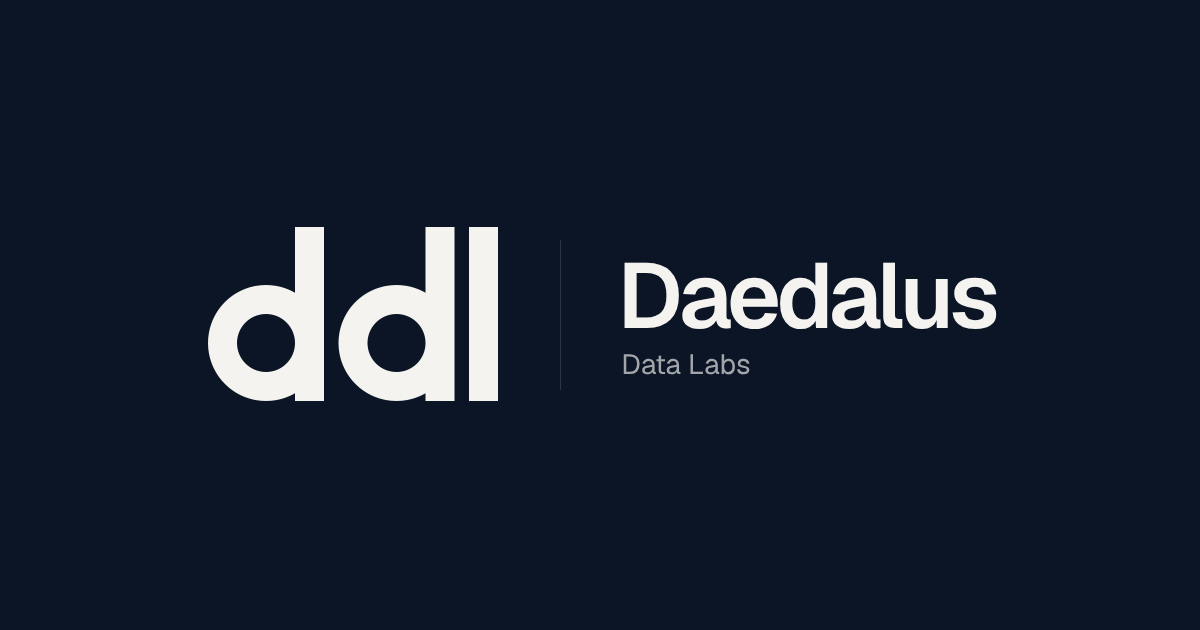
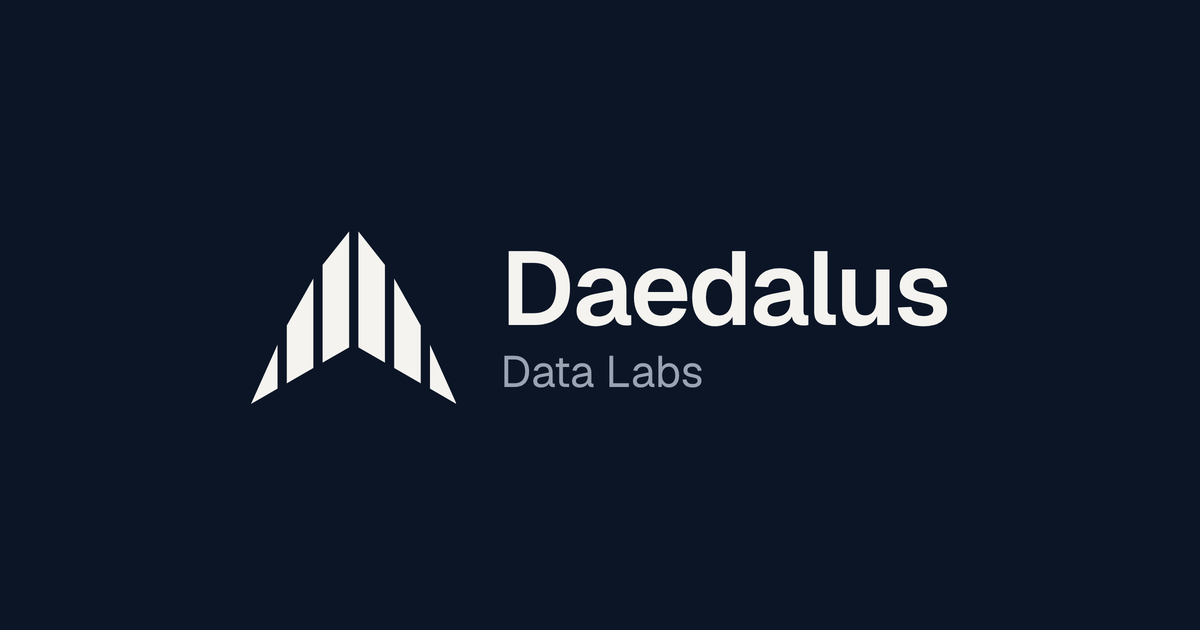
Replace the ddl mark with the Daedalus wing; tighten heading spacing
The new mark is two wings whose feathers are laid small to large (Ovid,
Metamorphoses 8); each wing is a delta and together they form a lambda,
so the mark reads DDL in Greek. The hero now draws that construction.
Nav and footer use the mark with a two-line Daedalus / Data Labs name,
the mark as tall as the name block. Masters, tile, favicons and OG image
re-rendered; old ddl assets removed. BRAND.md rewritten for the new mark.

Headline-to-subtitle gaps tightened: hero 28 -> 14 px, product 12 -> 6 px.

Changed region(s): [[0.1542, 0.3619, 0.8325, 0.6333]]

diff --git a/index.html b/index.html
@@ -17,13 +17,13 @@
 <link rel="preconnect" href="https://fonts.gstatic.com" crossorigin>
 <link rel="stylesheet" href="https://fonts.googleapis.com/css2?family=Geist:wght@400;500;600;700&display=swap">
 <link rel="stylesheet" href="/assets/site.css">
-<script>try{if(localStorage.getItem('ddl-theme')==='dark')document.documentElement.dataset.theme='dark'}catch(e){}</script>
+<script>try{if(localStorage.getItem('daedalus-theme')==='dark')document.documentElement.dataset.theme='dark'}catch(e){}</script>
 </head>
 <body>
 <header class="nav">
   <a class="brand" href="/" aria-label="Daedalus Data Labs home">
-    <svg class="mark" viewBox="0 0 300 180" aria-hidden="true"><path fill="currentColor" fill-rule="evenodd" d="M90 0 H120 V180 H90 V171.9615 A60 60 0 1 1 90 68.0385 Z M30 120 A30 30 0 1 0 90 120 A30 30 0 1 0 30 120 Z M225 0 H255 V180 H225 V171.9615 A60 60 0 1 1 225 68.0385 Z M165 120 A30 30 0 1 0 225 120 A30 30 0 1 0 165 120 Z M270 0 H300 V180 H270 Z"></path></svg>
-    <span class="brand-name">Daedalus <span class="brand-sub">Data Labs</span></span>
+    <svg class="mark" viewBox="0 5.26 200 167.94" aria-hidden="true"><path fill="currentColor" d="M0 173.2 L25.83 158.29 L25.83 115.4 L0 173.2 Z M34.83 153.09 L60.67 138.17 L60.67 51.13 L34.83 96.87 Z M69.67 132.98 L95.5 118.06 L95.5 5.26 L69.67 37.87 Z M104.5 118.06 L130.33 132.98 L130.33 37.87 L104.5 5.26 Z M139.33 138.17 L165.17 153.09 L165.17 96.87 L139.33 51.13 Z M174.17 158.29 L200 173.2 L174.17 115.4 Z"/></svg>
+    <span class="brand-name"><span class="brand-main">Daedalus</span><span class="brand-sub">Data Labs</span></span>
   </a>
   <nav class="links" aria-label="Primary">
     <a href="#meridian">Meridian</a>
@@ -41,30 +41,19 @@
       <h1>Software that tells you how it works.</h1>
       <p class="lede">Daedalus Data Labs is a small, independent studio. We make Meridian, which grades the US market where the data is complete, and Agora, a social network for your campus.</p>
     </div>
-    <figure class="construct" aria-label="The Daedalus Data Labs mark, drawn from one unit u, the stroke: counters of radius u, bowls of radius 2u, stems u wide and 6u tall, letters u/2 apart.">
-      <svg viewBox="-46 -18 362 232" role="img" aria-hidden="true">
-        <g class="guides">
-          <line x1="-46" y1="0" x2="316" y2="0"/><line x1="-46" y1="60" x2="316" y2="60"/><line x1="-46" y1="180" x2="316" y2="180"/>
-          <line x1="90" y1="-18" x2="90" y2="214"/><line x1="120" y1="-18" x2="120" y2="214"/><line x1="225" y1="-18" x2="225" y2="214"/><line x1="255" y1="-18" x2="255" y2="214"/><line x1="270" y1="-18" x2="270" y2="214"/><line x1="300" y1="-18" x2="300" y2="214"/>
-        </g>
-        <g class="circles">
-          <circle cx="60" cy="120" r="60"/><circle cx="60" cy="120" r="30"/><circle cx="195" cy="120" r="60"/><circle cx="195" cy="120" r="30"/>
-        </g>
-        <g class="dims">
-          <line x1="60" y1="120" x2="17.57" y2="77.57"/><circle cx="60" cy="120" r="1.6"/><circle cx="195" cy="120" r="1.6"/>
-          <line x1="195" y1="120" x2="216.21" y2="98.79"/>
-          <line x1="270" y1="196" x2="300" y2="196"/><line x1="270" y1="192" x2="270" y2="200"/><line x1="300" y1="192" x2="300" y2="200"/>
-          <line x1="255" y1="-9" x2="270" y2="-9"/><line x1="255" y1="-13" x2="255" y2="-5"/><line x1="270" y1="-13" x2="270" y2="-5"/>
-          <text x="-1" y="71">2u</text><text x="187" y="141">u</text><text x="282" y="209">u</text><text x="273" y="-6">u/2</text>
-          <text x="-44" y="-3">ascender, 6u</text><text x="-44" y="57">x-height, 4u</text><text x="-44" y="177">baseline</text>
-        </g>
-        <path class="ink" fill-rule="evenodd" d="M90 0 H120 V180 H90 V171.9615 A60 60 0 1 1 90 68.0385 Z M30 120 A30 30 0 1 0 90 120 A30 30 0 1 0 30 120 Z M225 0 H255 V180 H225 V171.9615 A60 60 0 1 1 225 68.0385 Z M165 120 A30 30 0 1 0 225 120 A30 30 0 1 0 165 120 Z M270 0 H300 V180 H270 Z"/>
-        <clipPath id="ink-clip"><path clip-rule="evenodd" d="M90 0 H120 V180 H90 V171.9615 A60 60 0 1 1 90 68.0385 Z M30 120 A30 30 0 1 0 90 120 A30 30 0 1 0 30 120 Z M225 0 H255 V180 H225 V171.9615 A60 60 0 1 1 225 68.0385 Z M165 120 A30 30 0 1 0 225 120 A30 30 0 1 0 165 120 Z M270 0 H300 V180 H270 Z"/></clipPath>
-        <g class="over" clip-path="url(#ink-clip)">
-          <line x1="-46" y1="60" x2="316" y2="60"/><line x1="90" y1="-18" x2="90" y2="214"/><line x1="120" y1="-18" x2="120" y2="214"/><line x1="225" y1="-18" x2="225" y2="214"/><line x1="255" y1="-18" x2="255" y2="214"/>
-          <circle cx="60" cy="120" r="60"/><circle cx="195" cy="120" r="60"/><line x1="60" y1="120" x2="17.57" y2="77.57"/>
+    <figure class="construct">
+      <svg viewBox="-92 -34 384 214" role="img" aria-labelledby="construct-cap">
+        <path class="ink" d="M0 173.2 L25.83 158.29 L25.83 115.4 L0 173.2 Z M34.83 153.09 L60.67 138.17 L60.67 51.13 L34.83 96.87 Z M69.67 132.98 L95.5 118.06 L95.5 5.26 L69.67 37.87 Z M104.5 118.06 L130.33 132.98 L130.33 37.87 L104.5 5.26 Z M139.33 138.17 L165.17 153.09 L165.17 96.87 L139.33 51.13 Z M174.17 158.29 L200 173.2 L174.17 115.4 Z"/>
+        <path class="outline o-lambda" d="M0 173.2 L100 0 L200 173.2 L100 115.47 Z"/>
+        <path class="outline o-left" d="M0 173.2 L95.5 5.26 L95.5 118.06 Z"/>
+        <path class="outline o-right" d="M200 173.2 L104.5 5.26 L104.5 118.06 Z"/>
+        <g class="labels">
+          <g transform="translate(-86 92)"><path class="glyph" d="M0 12 L6 0 L12 12 Z"/><text x="18" y="11">Daedalus</text></g>
+          <g transform="translate(214 92)"><path class="glyph" d="M0 12 L6 0 L12 12 Z"/><text x="18" y="11">Data</text></g>
+          <g transform="translate(112 -26)"><path class="glyph" d="M0 12 L6 0 L12 12"/><text x="18" y="11">Labs</text></g>
         </g>
       </svg>
+      <figcaption id="construct-cap">Δ Δ Λ: Daedalus Data Labs in Daedalus's own alphabet. Each wing is a delta, its feathers laid small to large; together they make the lambda.</figcaption>
     </figure>
   </section>
 
@@ -117,7 +106,7 @@
 
 <footer class="foot">
   <div class="foot-brand">
-    <svg class="mark small" viewBox="0 0 300 180" aria-hidden="true"><path fill="currentColor" fill-rule="evenodd" d="M90 0 H120 V180 H90 V171.9615 A60 60 0 1 1 90 68.0385 Z M30 120 A30 30 0 1 0 90 120 A30 30 0 1 0 30 120 Z M225 0 H255 V180 H225 V171.9615 A60 60 0 1 1 225 68.0385 Z M165 120 A30 30 0 1 0 225 120 A30 30 0 1 0 165 120 Z M270 0 H300 V180 H270 Z"></path></svg>
+    <svg class="mark small" viewBox="0 5.26 200 167.94" aria-hidden="true"><path fill="currentColor" d="M0 173.2 L25.83 158.29 L25.83 115.4 L0 173.2 Z M34.83 153.09 L60.67 138.17 L60.67 51.13 L34.83 96.87 Z M69.67 132.98 L95.5 118.06 L95.5 5.26 L69.67 37.87 Z M104.5 118.06 L130.33 132.98 L130.33 37.87 L104.5 5.26 Z M139.33 138.17 L165.17 153.09 L165.17 96.87 L139.33 51.13 Z M174.17 158.29 L200 173.2 L174.17 115.4 Z"/></svg>
     <p>&copy; 2026 Daedalus Data Labs, LLC</p>
   </div>
   <nav class="foot-cols" aria-label="Footer">
@@ -130,7 +119,7 @@
 (function(){var b=document.querySelector('.theme'),r=document.documentElement,m=document.querySelector('meta[name=theme-color]');
 function set(t){r.dataset.theme=t;var d=t==='dark';b.setAttribute('aria-label',d?'Switch to light mode':'Switch to dark mode');b.title=b.getAttribute('aria-label');m.content=d?'#0B1526':'#F4F3EF';}
 set(r.dataset.theme||'light');
-b.addEventListener('click',function(){var t=r.dataset.theme==='dark'?'light':'dark';set(t);try{localStorage.setItem('ddl-theme',t)}catch(e){}});})();
+b.addEventListener('click',function(){var t=r.dataset.theme==='dark'?'light':'dark';set(t);try{localStorage.setItem('daedalus-theme',t)}catch(e){}});})();
 </script>
 </body>
 </html>

diff --git a/assets/site.css b/assets/site.css
@@ -1,4 +1,4 @@
-/* Daedalus Data Labs. Parent brand: one ink, one ground (USAGE.md). Colour on this page belongs to the products. */
+/* Daedalus Data Labs. Parent brand: one ink, one ground (BRAND.md). Bronze appears only in the construction drawing; colour elsewhere belongs to the products. */
 :root{--ink:#0B1526;--ground:#F4F3EF;--paper:#FBFAF7;--line:#E3E0D8;--guide:rgba(11,21,38,.22);--muted:rgba(11,21,38,.66);
 --bronze:#B9822F;--bronze-wash:#EFE3CF;--agora-a:#2A5FD8;--agora-b:#7A4DFF;--agora-c:#FF6A52;--shadow:0 1px 2px rgba(11,21,38,.06),0 18px 40px -12px rgba(11,21,38,.22)}
 [data-theme=dark]{--ink:#F4F3EF;--ground:#0B1526;--paper:#101C30;--line:#1E2A3C;--guide:rgba(244,243,239,.24);--muted:rgba(244,243,239,.66);--bronze-wash:#2A2318;--shadow:0 1px 2px rgba(0,0,0,.3),0 18px 40px -12px rgba(0,0,0,.6)}
@@ -9,11 +9,12 @@ a{color:inherit}
 :focus-visible{outline:2px solid var(--ink);outline-offset:3px;border-radius:4px}
 .nav,main,.foot{max-width:1160px;margin:0 auto;padding-left:32px;padding-right:32px}
 .nav{display:flex;align-items:center;justify-content:space-between;gap:24px;padding-top:26px;padding-bottom:26px}
-.brand{display:flex;align-items:center;gap:14px;text-decoration:none}
-.mark{height:34px;width:auto;display:block}
+.brand{display:flex;align-items:center;gap:12px;text-decoration:none}
+.mark{height:38px;width:auto;display:block}
 .mark.small{height:24px}
-.brand-name{font-weight:600;font-size:19px;letter-spacing:-.02em}
-.brand-sub{font-weight:400;color:var(--muted)}
+.brand-name{display:flex;flex-direction:column;gap:4px;line-height:1}
+.brand-main{font-weight:600;font-size:21px;letter-spacing:-.02em}
+.brand-sub{font-weight:400;font-size:13px;color:var(--muted)}
 .links{display:flex;align-items:center;gap:24px;font-size:15px;font-weight:500}
 .links a{text-decoration:none;color:var(--muted)}
 .links a:hover{color:var(--ink)}
@@ -25,33 +26,29 @@ a{color:inherit}
 
 /* Hero: the mark, drawn from its construction */
 .hero{display:grid;grid-template-columns:minmax(0,5fr) minmax(0,6fr);gap:48px;align-items:center;padding:72px 0 96px}
-.hero h1{font-size:clamp(44px,6.4vw,84px);line-height:.98;letter-spacing:-.045em;font-weight:600;margin:0 0 28px}
+.hero h1{font-size:clamp(44px,6.4vw,84px);line-height:.98;letter-spacing:-.045em;font-weight:600;margin:0 0 14px}
 .lede{font-size:20px;line-height:1.5;color:var(--muted);margin:0;max-width:34ch}
 .construct{margin:0}
 .construct svg{width:100%;height:auto;display:block;overflow:visible}
-.guides line,.circles circle,.dims line{fill:none;stroke:var(--guide);stroke-width:.6;vector-effect:non-scaling-stroke}
-.guides line{stroke-dasharray:3 4}
-.dims line{stroke:var(--muted)}
-.dims circle{fill:var(--muted)}
-.dims text{font:500 7px Geist,system-ui,sans-serif;fill:var(--muted);letter-spacing:.01em}
+.construct figcaption{font-size:14px;line-height:1.5;color:var(--muted);margin-top:18px;max-width:44ch}
 .ink{fill:var(--ink)}
-.over line,.over circle{fill:none;stroke:var(--ground);stroke-opacity:.38;stroke-width:.6;vector-effect:non-scaling-stroke;stroke-dasharray:3 4}
+.outline{fill:none;stroke:var(--bronze);stroke-width:1.4;stroke-linejoin:round;vector-effect:non-scaling-stroke}
+.o-left,.o-right{stroke-dasharray:5 5}
+.labels text{font:500 13px Geist,system-ui,sans-serif;fill:var(--muted)}
+.labels .glyph{fill:none;stroke:var(--bronze);stroke-width:1.6;stroke-linejoin:round}
 @media (prefers-reduced-motion:no-preference){
-.guides line{stroke-dashoffset:0;animation:fade .6s ease-out both}
-.circles circle{stroke-dasharray:380;stroke-dashoffset:380;animation:draw 1.1s cubic-bezier(.6,0,.2,1) .25s forwards}
-.circles circle:nth-child(2),.circles circle:nth-child(4){animation-delay:.45s}
-.dims{animation:fade .5s ease-out 1.1s both}
-.ink,.over{animation:fill .7s ease-out 1.25s both}
+.ink{animation:fade .8s ease-out .2s both}
+.o-lambda{stroke-dasharray:900;stroke-dashoffset:900;animation:draw 1.2s cubic-bezier(.6,0,.2,1) .7s forwards}
+.o-left,.o-right,.labels{animation:fade .6s ease-out 1.6s both}
 }
 @keyframes draw{to{stroke-dashoffset:0}}
 @keyframes fade{from{opacity:0}}
-@keyframes fill{from{opacity:0}}
 
 /* Products */
 .product{display:grid;grid-template-columns:minmax(0,5fr) minmax(0,6fr);gap:64px;align-items:center;padding:88px 0;border-top:1px solid var(--line);scroll-margin-top:16px}
 .product.agora{grid-template-columns:minmax(0,6fr) minmax(0,5fr)}
 .product-icon{width:64px;height:64px;border-radius:15px;display:block;margin-bottom:26px;box-shadow:var(--shadow)}
-.product h2{font-size:clamp(36px,4.4vw,52px);line-height:1;font-weight:600;letter-spacing:-.04em;margin:0 0 12px}
+.product h2{font-size:clamp(36px,4.4vw,52px);line-height:1;font-weight:600;letter-spacing:-.04em;margin:0 0 6px}
 .tagline{font-size:22px;line-height:1.3;font-weight:500;letter-spacing:-.015em;margin:0 0 18px}
 .product-copy p:not(.tagline){color:var(--muted);margin:0 0 28px;max-width:46ch}
 .actions{display:flex;align-items:center;gap:24px;flex-wrap:wrap}
@@ -103,4 +100,4 @@ a{color:inherit}
 .browser{padding:14px 14px 12px;border-radius:16px}
 .foot-cols{gap:32px}
 }
-@media (max-width:400px){.brand-sub{display:none}}
+

diff --git a/BRAND.md b/BRAND.md
@@ -1,31 +1,41 @@
-# The ddl mark
+# The Daedalus mark
 
-Every dimension of the mark comes from one unit, **u**, the stroke width. Nothing in it is
-set by eye. `assets/ddl-master-ink.svg` is the source; every other file is rendered from it.
+Two wings, each laid feather by feather "in due order, from small to large", the way Ovid
+describes Daedalus building them (*Metamorphoses* 8). Read in Daedalus's own alphabet, the mark
+spells the company: each wing is a **Δ** (delta, D), and the two together form a **Λ** (lambda, L).
+**ΔΔΛ** is Daedalus Data Labs.
 
-| Element | Size | Why |
+`assets/daedalus-master-ink.svg` is the source. Every other file is rendered from it.
+
+## Construction
+
+| Element | Rule | Why |
 |---|---|---|
-| Stroke | u | One weight everywhere, so the mark reads as one drawing, not assembled parts. |
-| Counter | radius u | A bowl whose ring is exactly one stroke thick needs a counter of u inside an outer radius of 2u. |
-| Bowl | radius 2u (x-height 4u) | The ring's thickness, 2u − u, equals the stroke. |
-| Stem | u wide | The stem is the bowl's own right-hand stroke carried up, so the bowl and stem share an edge and meet without a seam. |
-| Ascender | 6u tall | The stem rises one bowl radius (2u) above the bowl. |
-| Letter gap | u/2, all three | One rule for every space, measured at the nearest point. |
-| Whole mark | 10u × 6u (5 : 3) | Follows from the above: two 4u d's, one u l, two u/2 gaps. |
-| Fill | solid, one ink | Ink `#0B1526` on marble `#F4F3EF`, or reversed. No cut-outs, gradients or outlines, so it holds at any size. |
+| Outline | A Λ: an equilateral triangle (60° sides) with a 30° underside notch | The wings together are the L; the notch turns a static triangle into a craft in flight. |
+| Wings | Each half is a triangle: outer tip, apex, notch | Each wing is a Δ, a D. |
+| Feathers | Three per wing, shortest outside, longest at the body | Ovid's order: small to large. |
+| Feather tops | Follow a gentle arc rather than the straight 60° side | Ovid: he "bent them to the shape of birds". |
+| Gaps | One width everywhere, including the body between the wings | One rule for every space. |
+| Fill | Solid, one ink: `#0B1526` on marble `#F4F3EF`, or reversed | Holds at every size. Bronze `#B07A2E` is used only in construction drawings. |
 
-The SVG has no padding: its edges are the ink's edges. Clear space is supplied by the layout
-and is at least **2u** on every side.
+The SVG viewBox is cropped to the ink (`0 5.26 200 167.94`): no padding. Clear space is
+supplied by the layout and is at least one feather width on every side.
+
+## Lockup
+
+The mark sits to the left of the name, set in two lines: **Daedalus** (Geist SemiBold) over
+**Data Labs** (Geist Regular, muted). The mark's height equals the height of that two-line block,
+so the mark and the name read as one unit.
 
 ## Sizes
 
-- The full mark is used at 24 px tall and above.
-- Below that (favicons) it is the single **d**: the first letter, the same geometry, 4u × 6u.
-- App tiles are 16u square with the mark centred (`ddl-tile-ink-on-marble-512.png`,
-  `apple-touch-icon.png`); favicon tiles are 8u square with the d centred.
+- The lockup is used where the name is at least 16 px tall.
+- The mark alone is used for app icons and favicons, centred on a marble tile at 62% of the
+  tile's width.
 
 ## Files
 
-- `ddl-master-ink.svg`, `ddl-master-reversed.svg`: the source, viewBox `0 0 300 180` (u = 30).
-- `ddl-master-ink.png`, `ddl-master-reversed.png`: 9000 × 5400, transparent, cropped to the ink.
-- `ddl-mark-ink.svg`, `ddl-mark-reversed.svg`, `ddl-d-ink.svg`: for the web.
+- `daedalus-master-ink.svg`, `daedalus-master-reversed.svg`: the source.
+- `daedalus-master-ink.png`, `daedalus-master-reversed.png`: 7600 × 6382, transparent, cropped to the ink.
+- `daedalus-mark-ink.svg`, `daedalus-mark-reversed.svg`: for the web.
+- `daedalus-tile-512.png`, `apple-touch-icon.png`, `favicon-32.png`, `favicon-16.png`, `og.png`.
